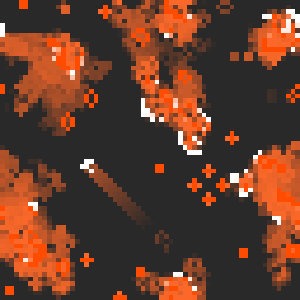
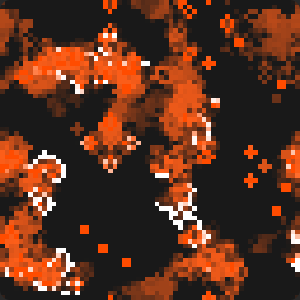
update(creative): game of life

diff --git a/apps/website/src/pages/arts/art-data.ts b/apps/website/src/pages/arts/art-data.ts
@@ -83,7 +83,7 @@ export const artData: ArtData<any>[] = [
     title: "Game of Life",
     route: Routes.arts.gameOfLife,
     thumbnail: gameOfLifePNG,
-    tags: [ArtTagNames.GPU, ArtTagNames.Automata],
+    tags: [ArtTagNames.Input, ArtTagNames.GPU, ArtTagNames.Automata],
     artMain: Creative.WebGL.GameOfLife.main,
   }),
 

diff --git a/packages/creative/src/webgl/game-of-life/game-of-life.ts b/packages/creative/src/webgl/game-of-life/game-of-life.ts
@@ -13,7 +13,7 @@ const defaultConfig = {
 
   wrap: true,
 
-  spawnChance: 0.14,
+  spawnChance: 0.1,
 
   skipFrames: 5,
 
@@ -22,7 +22,7 @@ const defaultConfig = {
 
   passiveBrightness: 0.10,
 
-  pointerRadius: 0.016,
+  pointerRadius: 0.024,
 
   colors: {
     main: [1.0, 0.3, 0.0],
